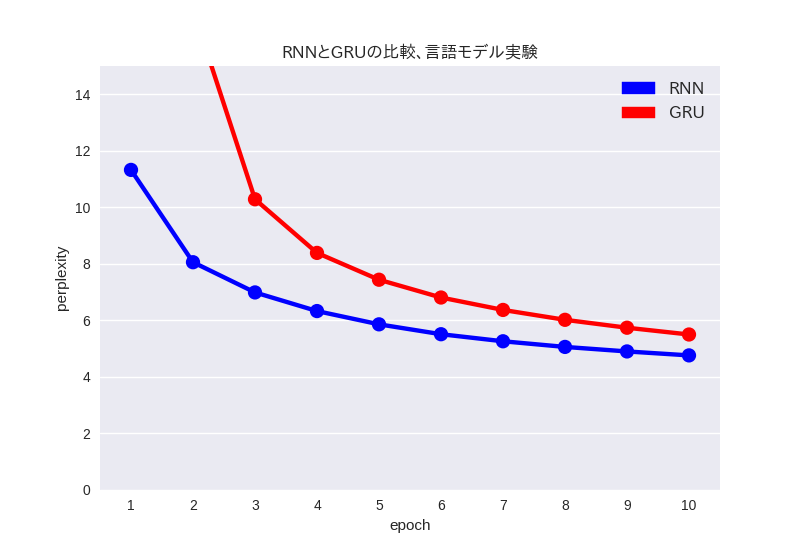
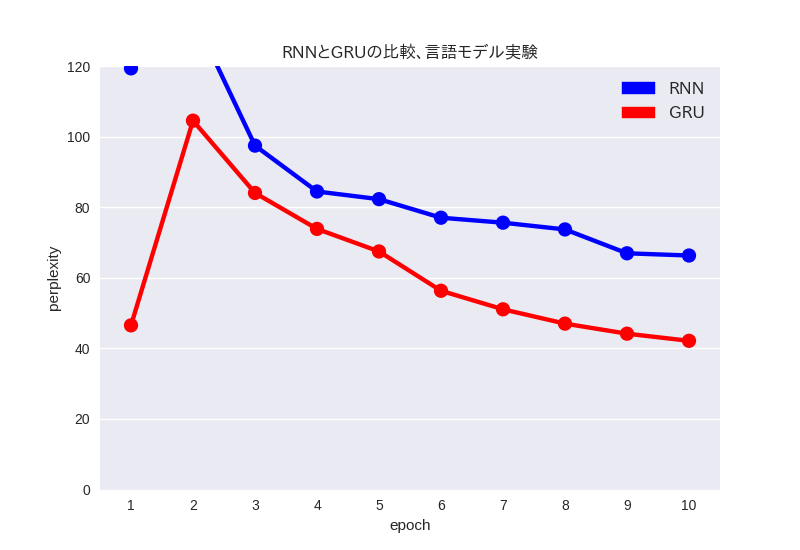
commit

diff --git a/rnnlm.py b/rnnlm.py
@@ -7,14 +7,17 @@ from gru import GRUModel
 import argparse
 
 parser = argparse.ArgumentParser()
-parser.add_argument("--word_dim")
-parser.add_argument("--hidden_dim")
-parser.add_argument("--class_dim")
-parser.add_argument("--class_type")
-parser.add_argument("--batch_size")
-parser.add_argument("--epoch")
-parser.add_argument("--sort")
-parser.add_argument("--data_size")
+parser.add_argument("--word_dim", type=int, default=5000)
+parser.add_argument("--hidden_dim", type=int, default=30)
+parser.add_argument("--class_dim", type=int, default=-1)
+parser.add_argument("--class_type", type=int, default=0)
+parser.add_argument("--batch_size", type=int, default=1, help="minibatch size")
+parser.add_argument("--epoch", type=int, default=1, help="epoch")
+parser.add_argument("--sort", type=bool, default=False, help="sort senteces")
+parser.add_argument("--data_size", type=int, default=1000, help="Number of senteces for training.")
+parser.add_argument("--network", "-n", default="RNN", help="Network Architecture")
+parser.add_argument("--training_data", type=str, default="data/reddit-comments-2015-08.csv")
+
 args = parser.parse_args()
 '''
 word_dim = args.word_dim
@@ -24,21 +27,30 @@ class_type = args.class_type # frequency binning
 batch_size = 
 '''
 
-if int(args.class_dim) > 0:
-    X_train, y_train, index_to_class_dist, class_to_word_list = getSentenceData('data/reddit-comments-2015-08.csv', int(args.word_dim), int(args.class_dim),sort=bool(int(args.sort)))
+if args.class_dim > 0:
+    X_train, y_train, index_to_class_dist, class_to_word_list = getSentenceData(
+        args.training_data, args.word_dim, args.class_dim,sort=args.sort)
 else:
-    X_train, y_train = getSentenceData('data/reddit-comments-2015-08.csv', int(args.word_dim), int(args.class_dim),sort=bool(int(args.sort)))
+    X_train, y_train = getSentenceData(args.training_data, args.word_dim, args.class_dim, sort=args.sort)
 
 np.random.seed(10)
+
 start = time.time()
 
-if int(args.class_dim) > 0:
-    class_rnn = ClassModel(int(args.word_dim), int(args.hidden_dim), class_dim=int(args.class_dim),
+if args.class_dim > 0:
+    class_rnn = ClassModel(args.word_dim, args.hidden_dim, class_dim=args.class_dim,
                            index_to_class_dist=index_to_class_dist, class_to_word_list=class_to_word_list)
-    losses = class_rnn.train(X_train[:int(args.data_size)], y_train[:int(args.data_size)],learning_rate=0.005, nepoch=int(args.epoch), evaluate_loss_after=1,batch_size=int(args.batch_size))
-else:
-    rnn = GRUModel(int(args.word_dim), int(args.hidden_dim))
-    losses = rnn.train(X_train[:int(args.data_size)], y_train[:int(args.data_size)], learning_rate=0.005, nepoch=int(args.epoch), evaluate_loss_after=1,batch_size=int(args.batch_size))
+    losses = class_rnn.train(X_train[:args.data_size], y_train[:args.data_size],
+                             learning_rate=0.005, nepoch=args.epoch, evaluate_loss_after=1,batch_size=args.batch_size)
+elif args.network == "RNN":
+    rnn = Model(args.word_dim, args.hidden_dim)
+    losses = rnn.train(X_train[:args.data_size], y_train[:args.data_size],
+                       learning_rate=0.005, nepoch=args.epoch, evaluate_loss_after=1,batch_size=args.batch_size)
+
+elif args.network == "GRU":
+    rnn = GRUModel(args.word_dim, args.hidden_dim)
+    losses = rnn.train(X_train[:args.data_size], y_train[:args.data_size],
+                       learning_rate=0.005, nepoch=args.epoch, evaluate_loss_after=1,batch_size=args.batch_size)
 
 print("training time : %.2f[s]"%(time.time() - start))
 

diff --git a/layer.py b/layer.py
@@ -1,6 +1,7 @@
 from activation import Tanh, Sigmoid, Inverse
 from gate import AddGate, MultiplyGate, HadamardGate
 import numpy as np
+import sys
 
 mulGate = MultiplyGate()
 addGate = AddGate()
@@ -54,13 +55,13 @@ class GRULayer:
         self.mul_V = mulGate.forward(V, self.s)
 
     def backward(self, x, prev_s, U_z, W_z, U_r, W_r, U_u, W_u, V, diff_s, dmul_V):
-        
         self.forward(x, prev_s, U_z, W_z, U_r, W_r, U_u, W_u, V)
         dV, dsv = mulGate.backward(V, self.s, dmul_V)
         ds = dsv + diff_s
         dprev_update, dnew_update = addGate.backward(self.prev_update, self.new_update, ds)
         dz, dprev_s_ = hadGate.backward(self.z, prev_s, dprev_update)
         dprev_s = dprev_s_
+        # dinv_zの値がぶっとぶ。 self.u か dnew_updateに問題あり？
         dinv_z, du = hadGate.backward(self.inv_z, self.u, dnew_update)
         dz += inv.backward(dinv_z)
         dadd_z = sigmoid.backward(self.z ,dz)
@@ -69,7 +70,7 @@ class GRULayer:
         dx = dx_
         dW_z, dprev_s_ = mulGate.backward(W_z, prev_s, dmul_W_z)
         dprev_s += dprev_s_
-        dadd_u = tanh.backward(self.u, du)
+        dadd_u = tanh.backward(self.add_u, du)
         dmul_U_u, dmul_W_u = addGate.backward(self.mul_U_u, self.mul_W_u, dadd_u)
         dU_u, dx_ = mulGate.backward(U_u, x, dmul_U_u)
         dx += dx_

diff --git a/viz.py b/viz.py
@@ -7,7 +7,7 @@ import pandas as pd
 import matplotlib.patches as mpatches
 from matplotlib.font_manager import FontProperties
 
-plot_name = "rnn-vs-gru"
+plot_name = "rnn-vs-gru-s5000-h50-b15"
 
 #タイトル等で日本語を使えるようにフォントを指定
 fp = FontProperties(fname=r'/usr/share/fonts/truetype/fonts-japanese-gothic.ttf')
@@ -17,8 +17,8 @@ blue_patch = mpatches.Patch(color='blue',label=u'RNN')
 red_patch = mpatches.Patch(color='red',label=u'GRU')
 sns.plt.legend(handles=[blue_patch,red_patch],prop=fp)
 
-data1 = pd.read_csv("rnn-s1000-h50-online.csv")
-data2 = pd.read_csv("gru-s1000-h50-online.csv")
+data1 = pd.read_csv("rnn-s5000-h50-b15.csv")
+data2 = pd.read_csv("gru-s5000-h50-b15.csv")
 sns.pointplot(
     x='epoch',
     y='PPL',
@@ -31,7 +31,7 @@ sns.pointplot(
     color='red')
 
 sns.plt.title(u"RNNとGRUの比較、言語モデル実験",fontproperties=fp)
-sns.plt.ylim(0, 15)
+sns.plt.ylim(0, 140)
 sns.plt.xlabel('epoch')
 sns.plt.ylabel('perplexity')
 sns.plt.savefig(plot_name + ".png")

diff --git a/activation.py b/activation.py
@@ -3,13 +3,33 @@ import numpy as np
 class Sigmoid:
     def forward(self, x):
         return 1.0 / (1.0 + np.exp(-x))
-
+        '''
+        if type(x) == float:
+            if x < -600.0:
+                x = -500.0
+            return 1.0 / (1.0 + np.exp(-x))
+        else:
+            if min(x) < -600.0:
+                indices = np.where(x < -600.0)
+                for i in indices:
+                    x[i] = -500.0
+            return 1.0 / (1.0 + np.exp(-x))
+        '''
     def backward(self, x, top_diff):
         output = self.forward(x)
         return (1.0 - output) * output * top_diff
 
 class Tanh:
     def forward(self, x):
+        '''
+        if type(x) == float:
+            if x > 100.0:
+                return 1.0
+            elif x < -100.0:
+                return -1.0
+        else:
+            if max(x)
+        '''     
         return np.tanh(x)
 
     def backward(self, x, top_diff):

diff --git a/rnn.py b/rnn.py
@@ -146,5 +146,6 @@ class Model:
                     learning_rate = learning_rate * 0.5
                     print("Setting learning rate to %f" % learning_rate)
                 sys.stdout.flush()
+                print("Perplexity : %.2f"%loss)
 
         return losses

diff --git a/gate.py b/gate.py
@@ -37,7 +37,6 @@ class HadamardGate:
     def forward(self, x1, x2):
         return x1 * x2
 
-        return
     def backward(self, x1, x2, dz):
         dx1 = dz * x2
         dx2 = dz * x1
